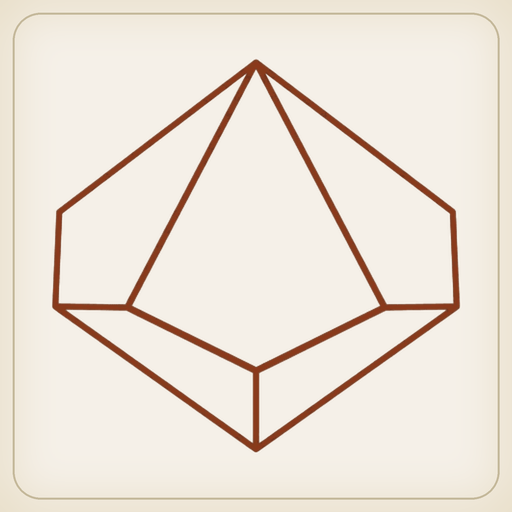
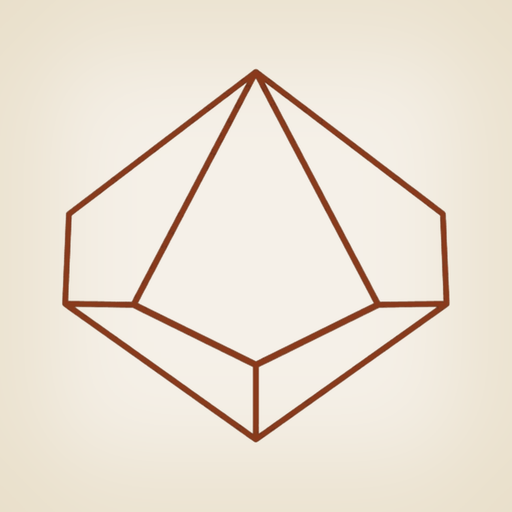
Add files via upload

diff --git a/index.html b/index.html
@@ -10,7 +10,7 @@
 <link rel="manifest" href="manifest.json">
 <link rel="apple-touch-icon" href="apple-touch-icon.png">
 <link rel="icon" type="image/png" sizes="32x32" href="favicon-32.png">
-<title>PawnPal — Companion</title>
+<title>PawnPal</title>
 <link rel="preconnect" href="https://fonts.googleapis.com">
 <link rel="preconnect" href="https://fonts.gstatic.com" crossorigin>
 <link href="https://fonts.googleapis.com/css2?family=Libre+Baskerville:ital,wght@0,400;0,700;1,400&family=Courier+Prime:wght@400;700&display=swap" rel="stylesheet">
@@ -147,20 +147,26 @@
   .btn-secondary:active { transform: translateY(2px); box-shadow: 0 0 0 var(--border); }
 
   /* session */
-  .session-head { width: 100%; max-width: 480px; padding: 24px 22px 8px; display: flex; flex-direction: column; align-items: center; gap: 3px; }
-  .session-day { font-family: 'Libre Baskerville', serif; font-size: 26px; font-weight: 700; color: var(--accent); letter-spacing: 0.02em; }
+  .session-head { width: 100%; max-width: 480px; padding: 24px 22px 8px; display: flex; flex-direction: column; align-items: center; gap: 3px; position: relative; }
+  .session-day { font-family: 'Libre Baskerville', serif; font-size: 26px; font-weight: 700; color: var(--accent); letter-spacing: 0.02em; line-height: 1; }
   .session-phase { font-size: 10px; letter-spacing: 0.22em; text-transform: uppercase; color: var(--muted); }
-  #session-body { width: 100%; max-width: 480px; display: flex; flex-direction: column; align-items: center; }
 
-  #push-badge {
-    display: none; align-items: center; justify-content: center; gap: 8px;
-    width: calc(100% - 32px); max-width: 448px; margin: 12px 16px 0;
-    padding: 9px 14px; border: 1px solid var(--accent-light); border-radius: 5px;
-    background: rgba(196,94,48,0.10); color: var(--accent);
-    font-size: 11px; font-weight: 700; letter-spacing: 0.1em; text-transform: uppercase;
+  .session-avatar {
+    position: absolute;
+    left: 18px;
+    top: 50%;
+    transform: translateY(-50%);
+    width: 60px; height: 60px;
+    border: 1.5px solid var(--accent);
+    border-radius: 50%;
+    background: rgba(232, 222, 200, 0.55);
+    overflow: hidden;
+    display: flex; align-items: center; justify-content: center;
+    box-shadow: 0 1px 0 var(--border-soft);
   }
-  #push-badge.show { display: flex; }
-  .push-die { display: inline-flex; align-items: center; justify-content: center; width: 20px; height: 20px; border: 1.5px solid var(--accent); border-radius: 4px; font-size: 11px; line-height: 1; }
+  .session-avatar img { width: 100%; height: 100%; object-fit: cover; display: block; }
+  .session-avatar .avatar-placeholder { width: 70%; height: 70%; color: var(--border); }
+  #session-body { width: 100%; max-width: 480px; display: flex; flex-direction: column; align-items: center; }
 
   .step-card { padding: 28px 22px 24px; margin: 18px 16px 0; max-width: 448px; text-align: center; }
   .step-eyebrow { font-size: 9px; letter-spacing: 0.2em; text-transform: uppercase; color: var(--muted); margin-bottom: 10px; position: relative; z-index: 1; }
@@ -217,6 +223,7 @@
   .test-num-cell + .test-num-cell { border-left: 0.5px solid var(--border); }
   .test-num { font-family: 'Courier Prime', monospace; font-size: 30px; font-weight: 700; color: var(--ink); line-height: 1.05; font-variant-numeric: tabular-nums; }
   .test-cap { font-size: 9px; letter-spacing: 0.14em; text-transform: uppercase; color: var(--muted); }
+  .test-push-note { font-size: 8.5px; letter-spacing: 0.06em; color: var(--accent); font-weight: 700; font-style: italic; }
   .test-source { margin-top: 8px; font-size: 10.5px; color: var(--muted); letter-spacing: 0.04em; }
   .test-source b { color: var(--ink); font-weight: 700; }
 
@@ -561,7 +568,7 @@
     </div>
   </main>
   <footer>
-    <span>v1.9.2 · welcome polish</span>
+    <span>v1.11.1 · icon refresh</span>
     <span style="display:flex;gap:14px;align-items:center;">
       <button class="reset-link" id="btn-abandon">abandon Pal</button>
       <button class="reset-link" id="btn-reset">reset (testing)</button>
@@ -572,11 +579,11 @@
 <!-- SESSION -->
 <div class="screen" id="screen-session">
   <div class="session-head">
+    <div class="session-avatar" id="session-avatar"></div>
     <div class="session-day" id="session-day">Day 1</div>
     <div class="session-phase" id="session-phase">Camp</div>
   </div>
   <div class="divider"></div>
-  <div id="push-badge"><span class="push-die">+1</span><span>+1 to your roll today</span></div>
   <div id="session-body"></div>
 </div>
 
@@ -590,7 +597,7 @@
     <div class="card-shell about-card">
       <div class="about-title">Welcome Wanderer</div>
       <div class="about-body">
-        <p>Your Pal is the figure you brought — a mini, a token, a photo of something you care about. They travel a road. Each day brings one event. You roll the d10 to see how it lands.</p>
+        <p>Your Pal is the figure you brought: a mini, a token, a photo of something you care about. They travel a road. Each day brings one event. You roll the d10 to see how it lands.</p>
         <p>Will you accept your day's fate, or take a gamble before the day is done?</p>
         <p>Most Pals fall. Some last for weeks. A rare few make it to retirement. Either way, their story joins the others when their run ends.</p>
         <p>When you're ready, name your Pal. Add a photo if you'd like. Then begin.</p>
@@ -613,7 +620,7 @@
     <div class="card-shell about-card">
       <div class="about-title">PawnPal</div>
       <div class="about-body">
-        <p>Your Pal is the figure you brought — a mini, a token, a photo of something you care about. They travel a road. Each day brings one event. You roll the d10 to see how it lands.</p>
+        <p>Your Pal is the figure you brought: a mini, a token, a photo of something you care about. They travel a road. Each day brings one event. You roll the d10 to see how it lands.</p>
         <p>Will you accept your day's fate, or take a gamble before the day is done?</p>
         <p>Most Pals fall. Some last for weeks. A rare few make it to retirement. Either way, their story joins the others when their run ends.</p>
         <p>When you're ready, name your Pal. Add a photo if you'd like. Then begin.</p>
@@ -632,7 +639,7 @@
   <div class="card-shell rules" style="margin:18px 16px 0;max-width:448px;">
     <div class="r-sec">
       <div class="r-head">Session</div>
-      <div class="r-line"><span class="r-num">1</span>Camp Phase — choose one activity</div>
+      <div class="r-line"><span class="r-num">1</span>Camp Phase: choose one activity</div>
       <div class="r-line"><span class="r-num">2</span>Draw event card</div>
       <div class="r-line"><span class="r-num">3</span>Roll 1d10 + stat modifier vs tier threshold</div>
       <div class="r-line"><span class="r-num">4</span>Double or Nothing (optional)</div>
@@ -642,10 +649,10 @@
     <div class="r-sec two-col">
       <div>
         <div class="r-head">Camp Activities</div>
-        <div class="ca-line"><b>Rest</b> — 1 Food → +1 HP</div>
-        <div class="ca-line"><b>Push</b> — 1 HP → +1 to roll</div>
-        <div class="ca-line"><b>Scout</b> — 1 Morale → peek, keep or bury</div>
-        <div class="ca-line"><b>Meditate</b> — free → +1 Morale</div>
+        <div class="ca-line"><b>Rest</b>: 1 Food → +1 HP</div>
+        <div class="ca-line"><b>Push</b>: 1 HP → +1 to roll</div>
+        <div class="ca-line"><b>Scout</b>: 1 Morale → peek, keep or bury</div>
+        <div class="ca-line"><b>Meditate</b>: free → +1 Morale</div>
       </div>
       <div>
         <div class="r-head">Modifier</div>
@@ -659,17 +666,17 @@
     </div>
     <div class="r-sec">
       <div class="r-head">Double or Nothing</div>
-      <div class="don-line"><span class="pass-c">Pass →</span> Press Your Luck — pass = ×2 gains · fail = lose all gains</div>
-      <div class="don-line"><span class="fail-c">Fail →</span> Fight Back — pass = full recovery · fail = ×2 losses</div>
+      <div class="don-line"><span class="pass-c">Pass →</span> Press Your Luck: pass = ×2 gains · fail = lose all gains</div>
+      <div class="don-line"><span class="fail-c">Fail →</span> Fight Back: pass = full recovery · fail = ×2 losses</div>
       <div class="don-note">Same stat · same modifier · Fight Back win ≠ progress</div>
     </div>
     <div class="r-sec">
       <div class="r-head">Tiers</div>
       <div class="tier-grid">
-        <div class="tier-line"><span class="tn">Wanderer</span> — 4+ — max 10</div>
-        <div class="tier-line"><span class="tn">Legend</span> — 8+ — max 30</div>
-        <div class="tier-line"><span class="tn">Adventurer</span> — 6+ — max 20</div>
-        <div class="tier-line"><span class="tn">Retired</span> — — —</div>
+        <div class="tier-line"><span class="tn">Wanderer</span> · 4+ · max 10</div>
+        <div class="tier-line"><span class="tn">Legend</span> · 8+ · max 30</div>
+        <div class="tier-line"><span class="tn">Adventurer</span> · 6+ · max 20</div>
+        <div class="tier-line"><span class="tn">Retired</span> · — · —</div>
       </div>
     </div>
     <div class="r-sec">
@@ -906,7 +913,7 @@ async function handlePhotoUpload(file) {
     if (!saveState()) {
       pal().photo = prev;
       saveState();
-      toast('Photo too large — try a smaller image.');
+      toast('Photo too large. Try a smaller image.');
       return;
     }
     renderAvatar();
@@ -986,7 +993,7 @@ function abandonPal() {
   const days = p.daysSurvived;
   const msg = hadInvestment
     ? 'Abandon ' + label + '?\n\nTheir record will be archived to Past PawnPals (' + p.tier + ', ' + days + ' day' + (days === 1 ? '' : 's') + '). A new Pal will begin.'
-    : 'Reset to a new Pal? Nothing has been written yet — no record will be archived.';
+    : 'Reset to a new Pal? Nothing has been written yet. No record will be archived.';
   if (!confirm(msg)) return;
   concludePal('abandoned');
   render();
@@ -1113,9 +1120,15 @@ function goFallen() { state.session.phase = 'fallen'; saveState(); renderPhase()
 function updateSessionHead() {
   document.getElementById('session-day').textContent = 'Day ' + state.session.day;
   document.getElementById('session-phase').textContent = PHASE_LABEL[state.session.phase] || '';
-  const badge = document.getElementById('push-badge');
-  const live = state.session.pushReminder && state.session.phase === 'event';
-  badge.classList.toggle('show', !!live);
+
+  // Session avatar: same logic as the home-sheet avatar but smaller.
+  // Shows the player's photo if set, the d10 silhouette if not.
+  const sav = document.getElementById('session-avatar');
+  if (pal().photo) {
+    sav.innerHTML = '<img src="' + pal().photo + '" alt="">';
+  } else {
+    sav.innerHTML = D10_SVG;
+  }
 }
 
 /* Camp */
@@ -1131,7 +1144,7 @@ function isCampBlocked(act) {
 function chooseCamp(act) {
   if (isCampBlocked(act)) return; // no-op safeguard, the button is disabled anyway
   if (act.costStat && pal()[act.costStat] === 1) {
-    if (!confirm('This costs 1 ' + act.costStat + ', dropping it to 0 — your Pal will fall. Take this anyway?')) return;
+    if (!confirm('This costs 1 ' + act.costStat + ', dropping it to 0. Your Pal will fall. Take this anyway?')) return;
   }
   Object.keys(act.deltas).forEach(s => applyDelta(s, act.deltas[s]));
   state.session.camp = act.id;
@@ -1158,7 +1171,7 @@ function buildStatsBar() {
 function renderCamp(body) {
   const card = document.createElement('div'); card.className = 'card-shell camp-card';
   card.appendChild(buildStatsBar());
-  const intro = document.createElement('div'); intro.className = 'camp-intro'; intro.textContent = 'Make camp. Choose one — each is a real tradeoff.';
+  const intro = document.createElement('div'); intro.className = 'camp-intro'; intro.textContent = 'Make camp. Choose one.';
   card.appendChild(intro);
 
   const list = document.createElement('div'); list.className = 'camp-list';
@@ -1224,7 +1237,9 @@ function buildEventCard(c) {
   card.appendChild(title); card.appendChild(sit);
 
   const v = pal()[c.stat];
-  const mod = modifierFor(v);
+  const baseMod = modifierFor(v);
+  const pushActive = !!state.session.pushReminder;
+  const mod = baseMod + (pushActive ? 1 : 0);
   const panel = document.createElement('div'); panel.className = 'test-panel';
   const eye = document.createElement('div'); eye.className = 'test-eyebrow';
   eye.innerHTML = '<span class="test-stat">' + c.stat + '</span> Test';
@@ -1232,7 +1247,8 @@ function buildEventCard(c) {
   const nums = document.createElement('div'); nums.className = 'test-numbers';
   const cell1 = document.createElement('div'); cell1.className = 'test-num-cell';
   const n1 = document.createElement('div'); n1.className = 'test-num'; n1.textContent = fmtSigned(mod);
-  const c1 = document.createElement('div'); c1.className = 'test-cap'; c1.textContent = 'Modifier';
+  const c1 = document.createElement('div'); c1.className = 'test-cap';
+  c1.innerHTML = 'Modifier' + (pushActive ? '<br><span class="test-push-note">includes +1 from Push</span>' : '');
   cell1.appendChild(n1); cell1.appendChild(c1);
   const cell2 = document.createElement('div'); cell2.className = 'test-num-cell';
   const n2 = document.createElement('div'); n2.className = 'test-num'; n2.textContent = TIER_THRESHOLD[pal().tier];
@@ -1370,7 +1386,7 @@ function renderEvent(body) {
   const c = cardById(state.session.card);
   const scoutingUnlocked = state.session.scouting && !state.session.cardLocked;
   if (scoutingUnlocked) {
-    const eyebrow = document.createElement('div'); eyebrow.className = 'scout-eyebrow'; eyebrow.textContent = 'Scouted — keep this card, or bury it for the next';
+    const eyebrow = document.createElement('div'); eyebrow.className = 'scout-eyebrow'; eyebrow.textContent = 'Scouted: keep this card or bury it for the next.';
     body.appendChild(eyebrow);
   }
   body.appendChild(buildEventCard(c));
@@ -1458,7 +1474,7 @@ function applyFinalAndFinish(gambleResult) {
 function renderDonOffer(body) {
   const card = document.createElement('div'); card.className = 'card-shell don-card';
   card.appendChild(buildStatsBar());
-  const eye = document.createElement('div'); eye.className = 'don-eyebrow'; eye.textContent = 'Step 4 — Double or Nothing';
+  const eye = document.createElement('div'); eye.className = 'don-eyebrow'; eye.textContent = 'Step 4 · Double or Nothing';
   const resolved = state.session.resolved;
   const title = document.createElement('div');
   title.className = 'don-title ' + (resolved === 'pass' ? 'pass-c' : 'fail-c');
@@ -1539,7 +1555,10 @@ function renderDonResolve(body) {
   wrap.appendChild(title); wrap.appendChild(sit);
 
   // test panel (same modifier + threshold as the original event roll)
-  const v = pal()[card.stat]; const mod = modifierFor(v);
+  const v = pal()[card.stat];
+  const baseMod = modifierFor(v);
+  const pushActive = !!state.session.pushReminder;
+  const mod = baseMod + (pushActive ? 1 : 0);
   const panel = document.createElement('div'); panel.className = 'test-panel';
   const eye = document.createElement('div'); eye.className = 'test-eyebrow';
   eye.innerHTML = '<span class="test-stat">' + card.stat + '</span> Test  ·  Same modifier, same threshold';
@@ -1547,7 +1566,8 @@ function renderDonResolve(body) {
   const nums = document.createElement('div'); nums.className = 'test-numbers';
   const cell1 = document.createElement('div'); cell1.className = 'test-num-cell';
   const n1 = document.createElement('div'); n1.className = 'test-num'; n1.textContent = fmtSigned(mod);
-  const c1 = document.createElement('div'); c1.className = 'test-cap'; c1.textContent = 'Modifier';
+  const c1 = document.createElement('div'); c1.className = 'test-cap';
+  c1.innerHTML = 'Modifier' + (pushActive ? '<br><span class="test-push-note">includes +1 from Push</span>' : '');
   cell1.appendChild(n1); cell1.appendChild(c1);
   const cell2 = document.createElement('div'); cell2.className = 'test-num-cell';
   const n2 = document.createElement('div'); n2.className = 'test-num'; n2.textContent = TIER_THRESHOLD[pal().tier];

diff --git a/service-worker.js b/service-worker.js
@@ -2,7 +2,7 @@
 // Strategy: cache-first for app shell, network fallback, last-known good when offline.
 // To ship a new version: bump CACHE_VERSION below and re-deploy.
 
-const CACHE_VERSION = 'pawnpal-v1.8';
+const CACHE_VERSION = 'pawnpal-v1.11';
 const CORE_ASSETS = [
   './',
   './index.html',
